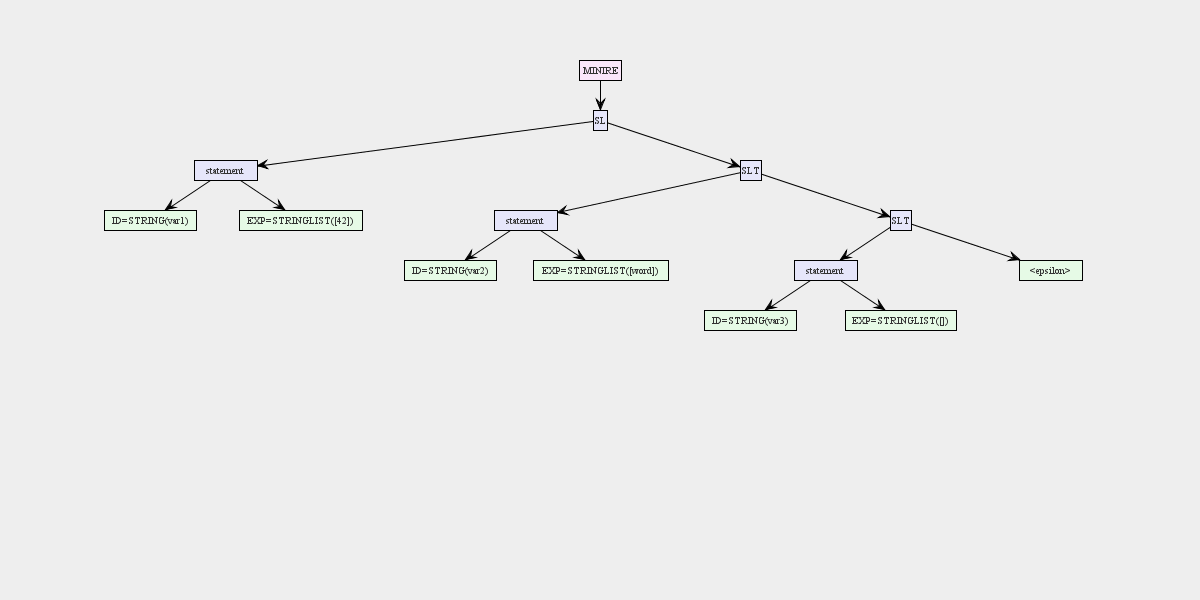
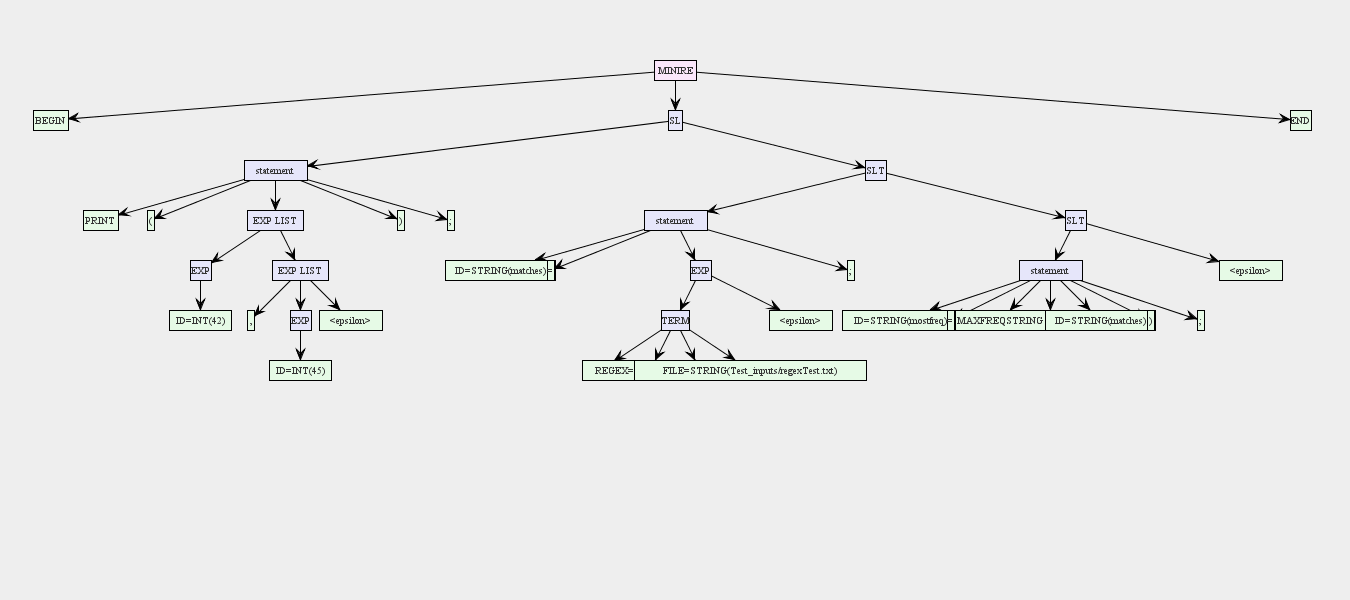
ast gen enhances to work with supersimple.txt

diff --git a/Source/RecursiveParserMiniRe.java b/Source/RecursiveParserMiniRe.java
@@ -6,12 +6,12 @@ import java.util.HashMap;
 import java.util.Stack;
 
 public class RecursiveParserMiniRe {
-	HashMap<String, Variable> variables = new HashMap<String,Variable>(); // These are variables generated during minireProgram run
+//	HashMap<String, Variable> variables = new HashMap<String,Variable>(); // These are variables generated during minireProgram run
 	Stack<Token> tokens;
 	boolean DEBUG = true;
 	private ArrayList<String> knownSymbols; // ex ArrayList<String>( ["$ID", "$NUMBER", "$FIND", "$BEGIN"...] )
 	
-	public static enum Symbol {L_PAREN, R_PAREN, REPLACE, BEGIN, END, EQUALS, REGEX, ID, WITH, COMMA, RECURSIVE_REPLACE, ASCII_STR, IN, DIFF, INTERS, PRINT, UNION, CHARCLASS, FIND, HASH, MAXFREQSTRING, END_LINE, SAVE_TO};
+	public static enum Symbol {OPENPAREN, CLOSEPAREN, REPLACE, BEGIN, END, EQUALS, REGEX, ID, WITH, COMMA, RECURSIVE_REPLACE, ASCII_STR, IN, DIFF, INTERS, PRINT, UNION, CHARCLASS, FIND, HASH, MAXFREQSTRING, END_LINE, SAVE_TO};
 	
 	private Token peekToken() throws ParseError {
 		if (DEBUG) System.out.println("PEEK: "+tokens.peek() + " :: " + tokenToSymbol(tokens.peek()));
@@ -33,22 +33,6 @@ public class RecursiveParserMiniRe {
 			tokens.add(inTokens.get(i));
 		// Stack is pushed in reverse from list so first token is on top of stack
 	}
-		
-	/** Starts with a letter, optionally followed by 0-9 letters or numbers or underscores
-	 * Has to be 1 or more characters
-	 * Basically [a-zA-Z][a-zA-Z0-9_]*
-	 * 
-	 * @param t
-	 * @return
-	 */
-	boolean isID(String t) {
-		if (t.isEmpty() || t.length() >= 10 || !((t.charAt(0) >= 'a' && t.charAt(0) <= 'z') || (t.charAt(0) >= 'A' && t.charAt(0) <= 'Z')) )
-			return false;
-		for (char c : t.toCharArray())
-			if ( !((c >= 'a' && c <= 'z') || (c >= 'A' && c <= 'Z') || (c >= '0' && c <= '9') || c == '_') )
-				return false;
-		return true;
-	}
 	
 	
 	//* ***********************************
@@ -64,9 +48,11 @@ public class RecursiveParserMiniRe {
 		if (DEBUG) System.out.println("MINIRE PROGRAM");
 		Node root = new Node("MINIRE");
 		matchToken(Symbol.BEGIN);
+		root.addChild(new Node ("BEGIN"));
 		Node stl = statementList();
 		root.addChild(stl);
 		matchToken(Symbol.END);
+		root.addChild(new Node ("END"));
 		return root;
 	}
 
@@ -116,56 +102,55 @@ public class RecursiveParserMiniRe {
 		switch(sym) {
 		case ID:
 			Variable idToSet = new Variable(Variable.VAR_TYPE.STRING, matchToken(Symbol.ID).data.toString() );
-			matchToken(Symbol.EQUALS);
-			Symbol sym2 = tokenToSymbol( peekToken() );
-			
-			// Add Node ID
+			// ID
 			Node idNode = new Node("ID");
 			idNode.setData(idToSet);
 			n.addChild(idNode);
 			
-			Variable toValue;
+			// ID =
+			matchToken(Symbol.EQUALS);
+			n.addChild(new Node("="));
+			Symbol sym2 = tokenToSymbol( peekToken() );
+			
 			switch (sym2) {
 			// Expression
 			case ID:
 			case FIND:
-			case L_PAREN:
+			case OPENPAREN:
 				// set to value of Expression, which will be a string list
-				Node valNode = new Node("EXP");
-				toValue = new Variable( Variable.VAR_TYPE.STRINGLIST, exp() );
-				valNode.setData(toValue);
-				n.addChild(valNode);
+				n.addChild( exp() );
 				break;
 			// # Expression
 			case HASH:
 				// # <exp>, return length of expression 
 				if (DEBUG) System.out.println("DO #");
 				matchToken(Symbol.HASH);
-				// TODO : ARGH ALL OF THIS
-				int count = 1;
-				exp();
-				toValue = new Variable( Variable.VAR_TYPE.INT, count );
+				n.addChild(new Node("#"));
+				n.addChild( exp() );
 				break;
 			// maxfreqstring(ID)
 			case MAXFREQSTRING:
 				// Magic maxfreqstring
 				if (DEBUG) System.out.println("DO MAX FREQ STRING");
 				matchToken(Symbol.MAXFREQSTRING);
-				matchToken(Symbol.L_PAREN);
-				Variable val = variables.get( matchToken(Symbol.ID).data );
-				if (val.type != Variable.VAR_TYPE.STRINGLIST)
-					throw new ParseError("PARSE-ERROR: Variable given to Max freq string not a string list! : is type '"+val.type+"'");
-				System.out.println("Set ID("+idToSet+") = maxfreqstring("+val+")");
-				@SuppressWarnings("unchecked")
-				String mostCommon = Operations.maxfreqstring( (ArrayList<String>)val.value );
-				toValue = new Variable( Variable.VAR_TYPE.STRING, mostCommon );
-//				variables.put(idToSet, val );
-				matchToken(Symbol.R_PAREN);
+				n.addChild( new Node("MAXFREQSTRING") );
+				matchToken(Symbol.OPENPAREN);
+				n.addChild( new Node("(") );
+				Token tok = matchToken(Symbol.ID);
+//				if (!variables.containsKey(tok.data))
+//					throw new ParseError("PARSE-ERROR: ID("+tok.data+") passed to maxfreqstring not stored in variables("+variables+")!");
+//				Variable val = variables.get( tok.data );
+//				if (val.type != Variable.VAR_TYPE.STRINGLIST)
+//					throw new ParseError("PARSE-ERROR: Variable given to Max freq string not a string list! : is type '"+val.type+"'");
+				n.addChild( new Node("ID", new Variable(Variable.VAR_TYPE.STRING, tok.data.toString()) ) );
+				
+				matchToken(Symbol.CLOSEPAREN);
+				n.addChild( new Node(")") );
 				break;
 			default:
 				throw new ParseError("statement sub-switch ID was passed unexpected token: '"+sym2+"' for "+sym+" with stack "+tokens);
 			}
-			System.out.println("Do Set ID("+idToSet+") = SOMETHING("+toValue+")");
+//			System.out.println("Do Set ID("+idToSet+") = SOMETHING("+toValue+")");
 //			variables[]
 			break;
 		case REPLACE:
@@ -183,13 +168,21 @@ public class RecursiveParserMiniRe {
 			break;
 		case PRINT:
 			if (DEBUG) System.out.println("DO PRINT");
+			
 			matchToken(Symbol.PRINT);
-			expressionList();
+			n.addChild( new Node("PRINT") );
+			
+			matchToken(Symbol.OPENPAREN);
+			n.addChild(new Node ("("));
+			n.addChild( expressionList() );
+			matchToken(Symbol.CLOSEPAREN);
+			n.addChild(new Node (")"));
 			break;
 		default:
 			throw new ParseError("statement() was passed unexpected token: '"+sym+"' for "+tokens);
 		}
 		matchToken(Symbol.END_LINE);
+		n.addChild(new Node (";"));
 		return n;
 	}
 
@@ -258,10 +251,12 @@ public class RecursiveParserMiniRe {
 	 * @return 
 	 * @throws ParseError 
 	 */
-	private void expressionList() throws ParseError {
+	private Node expressionList() throws ParseError {
 		if (DEBUG) System.out.println("EXPRESSION LIST");
-		ArrayList<String> listOfExpresssions = exp();
-		expressionListTail(listOfExpresssions);
+		Node node = new Node("EXP LIST");
+		node.addChild( exp() );
+		node.addChild( expressionListTail() );
+		return node;
 	}
 
 	/**
@@ -270,13 +265,17 @@ public class RecursiveParserMiniRe {
 	 *   <exp-list-tail> -> epsilon(null)        <---- This was told on Piazza...
 	 * @throws ParseError 
 	 */
-	private void expressionListTail(ArrayList<String> expList) throws ParseError {
+	private Node expressionListTail() throws ParseError {
 		if (DEBUG) System.out.println("EXPRESSION LIST TAIL");
 		if (tokenToSymbol(peekToken()) == Symbol.COMMA) {
-			matchToken(Symbol.COMMA);			
-			ArrayList<String> expr = exp();
-			expList.addAll(expr);
-			expressionListTail(expList);
+			Node node = new Node("EXP LIST");
+			matchToken(Symbol.COMMA);		
+			node.addChild( new Node(",") );
+			node.addChild( exp() );
+			node.addChild( expressionListTail() );
+			return node;
+		} else {
+			return null;
 		}
 	}
 
@@ -287,26 +286,32 @@ public class RecursiveParserMiniRe {
 	 * @throws ParseError 
 	 * 
 	 */
-	private ArrayList<String> exp() throws ParseError {
+	@SuppressWarnings("unchecked")
+	private Node exp() throws ParseError {
 		if (DEBUG) System.out.println("EXP");
-		ArrayList<String> listOfExpr = new ArrayList<String>();
 		Symbol sym = tokenToSymbol( peekToken() );
+		Node node = new Node("EXP");
 		if (sym == Symbol.ID) {
-//			Node n = new Node("EXP");
 			Token tok = matchToken(Symbol.ID);
-			listOfExpr.add( tok.data.toString() );
-//			if (tok.type.equals("$NUMBER"))
-//				n.setData( new Variable(Variable.VAR_TYPE.INT, tok.data) );			
-//			return n;
-		} else if (sym == Symbol.L_PAREN) {
-			matchToken(Symbol.L_PAREN);
-			listOfExpr = exp();
-			matchToken(Symbol.R_PAREN);
+			Variable var; 
+			if (tok.type.equals("$NUMBER"))
+				var = new Variable(Variable.VAR_TYPE.INT, tok.data );
+			else if (((ArrayList<String>)tok.data).size() == 1)
+				var = new Variable(Variable.VAR_TYPE.STRING, tok.data );
+			else
+				var = new Variable(Variable.VAR_TYPE.STRINGLIST, tok.data );
+			node.addChild( new Node("ID", var ) );
+		} else if (sym == Symbol.OPENPAREN) {
+			matchToken(Symbol.OPENPAREN);
+			Node in = exp();
+			in.name = "(EXP)";
+			node.addChild( in );
+			matchToken(Symbol.CLOSEPAREN);
 		} else {
-			listOfExpr = term();
-			expressionTail(listOfExpr);
+			node.addChild( term() );
+			node.addChild( expressionTail() );
 		}
-		return listOfExpr;
+		return node;
 	}
 
 	/**
@@ -315,33 +320,18 @@ public class RecursiveParserMiniRe {
 	 * <exp-tail> -> epsilon
 	 * @throws ParseError 
 	 */
-	private void expressionTail(ArrayList<String> first) throws ParseError {
+	private Node expressionTail() throws ParseError {
 		if (DEBUG) System.out.println("EXPRESSION TAIL");
 		Symbol sym = tokenToSymbol( peekToken() );
 		if (sym == Symbol.DIFF || sym == Symbol.UNION || sym == Symbol.INTERS) {
-			binaryOperators();
-			ArrayList<String> second = term();
-			if (sym == Symbol.DIFF){ // a - b Difference
-				// first list minus second
-				first.removeAll(second);
-			}
-			else if (sym == Symbol.UNION){ // Union
-				for (String thing : second) {
-					if (!first.contains(thing))
-						first.add(thing);
-				}
-			}
-			else { // Intersection
-				ArrayList<String> intersected = new ArrayList<String>();
-				for (String thing : second) {
-					if (first.contains(thing))
-						intersected.add(thing);
-				}
-				first.clear();
-				first.addAll(intersected);
-			}
-			expressionTail(first);
-		} // else epsilon
+			Node node = new Node("EXP TAIL");
+			node.addChild( binaryOperators() );
+			node.addChild( term() );
+			node.addChild( expressionTail() );
+			return node;
+		} else {
+			return null;
+		}
 	}
 
 	/**
@@ -349,24 +339,22 @@ public class RecursiveParserMiniRe {
 	 * @return String[] of those strings found via regex
 	 * @throws ParseError
 	 */
-	private ArrayList<String> term() throws ParseError {
+	private Node term() throws ParseError {
 		if (DEBUG) System.out.println("TERM");
-		
+		Node node = new Node("TERM");
 		matchToken(Symbol.FIND);
+		node.addChild(new Node ("FIND"));
+		
 		String regex = matchToken(Symbol.REGEX).data.toString();
 		regex = regex.substring(0, regex.length()-1); // Get rid of enclosing apostrophes
-		matchToken(Symbol.IN);
-		String fname = filename();
-		if (DEBUG) System.out.println("DO Find("+regex+","+fname+")");
-		ArrayList<String> out = new ArrayList<String>();
-		try {
-			out.addAll( Operations.find(regex, fname) );
-			System.out.println("FIND SUCCESSFUL: "+out);
-		} catch (IOException e) {
-			System.out.println("FIND FAILED, return empty string array list.");
-		}
+		node.addChild(new Node ("REGEX", new Variable(Variable.VAR_TYPE.STRING, regex)));
 		
-		return out;
+		matchToken(Symbol.IN);
+		node.addChild(new Node ("IN"));
+		
+		String fname = filename();
+		node.addChild(new Node ("FILE", new Variable(Variable.VAR_TYPE.STRING, fname)));
+		return node;
 	}
 
 	/**
@@ -387,11 +375,12 @@ public class RecursiveParserMiniRe {
 	 * @return 
 	 * @throws ParseError 
 	 */
-	private void binaryOperators() throws ParseError {
+	private Node binaryOperators() throws ParseError {
 		if (DEBUG) System.out.println("BINARY OPERATOR");
 		Symbol sym = tokenToSymbol( peekToken() );
 		if (sym == Symbol.DIFF || sym == Symbol.UNION || sym == Symbol.INTERS) {
 			matchToken(sym);
+			return new Node(sym.name());
 		}
 		else {
 			throw new ParseError("binaryOperators() was passed unexpected token + '"+sym+"' for "+tokens);

diff --git a/Source/Node.java b/Source/Node.java
@@ -12,6 +12,10 @@ public class Node {
 		this.children = new ArrayList<Node>();
 		this.name = nodeName;
 	}
+	public Node(String nodeName, Variable data) {
+		this(nodeName);
+		this.data = data;
+	}
 	
 	public void addChild(Node n) {
 		this.children.add(n);
@@ -19,11 +23,11 @@ public class Node {
 	
 	@Override
 	public String toString() {
-		String s = "N<"+name+":";
+		String s = "N<"+name;
 		if (this.data != null)
-			s += "data="+this.data+":";
+			s += ":data="+this.data;
 		if (this.children.size() > 0)
-			s += "children="+this.children;
+			s += ":children="+this.children;
 		return s + ">";
 	}
 

diff --git a/Source/DrawingStuff.java b/Source/DrawingStuff.java
@@ -38,7 +38,7 @@ public class DrawingStuff {
 		DelegateTree<Node, Integer> tree = new DelegateTree<Node,Integer>(new DirectedOrderedSparseMultigraph<Node, Integer>());
 		tree.setRoot(ast);
 		buildGraph(tree,ast);
-		TreeLayout<Node, Integer> layout = new TreeLayout<Node, Integer>(tree,150);
+		TreeLayout<Node, Integer> layout = new TreeLayout<Node, Integer>(tree,50);
 		
 		 VisualizationViewer<Node, Integer> vv = new VisualizationViewer<Node,Integer>(layout, new Dimension(600,600));
 		 
